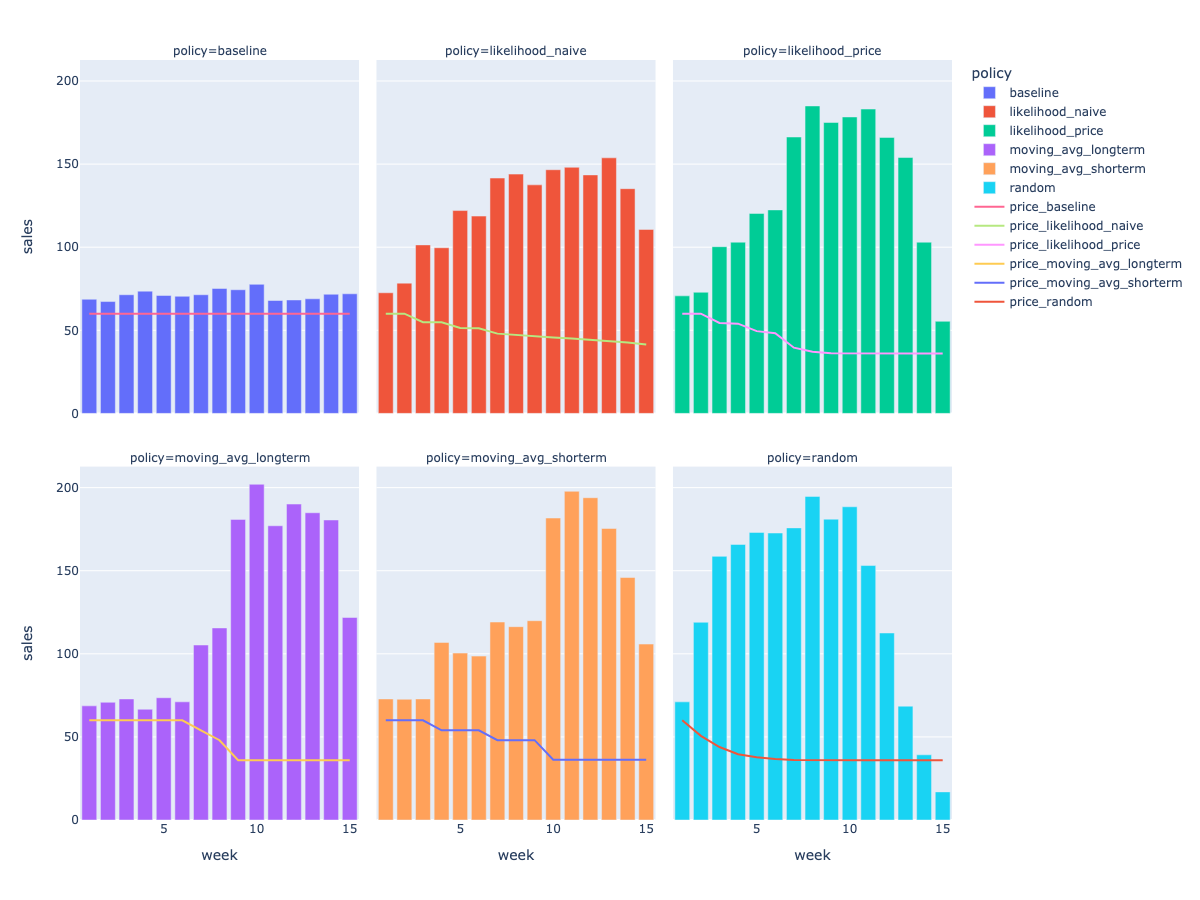
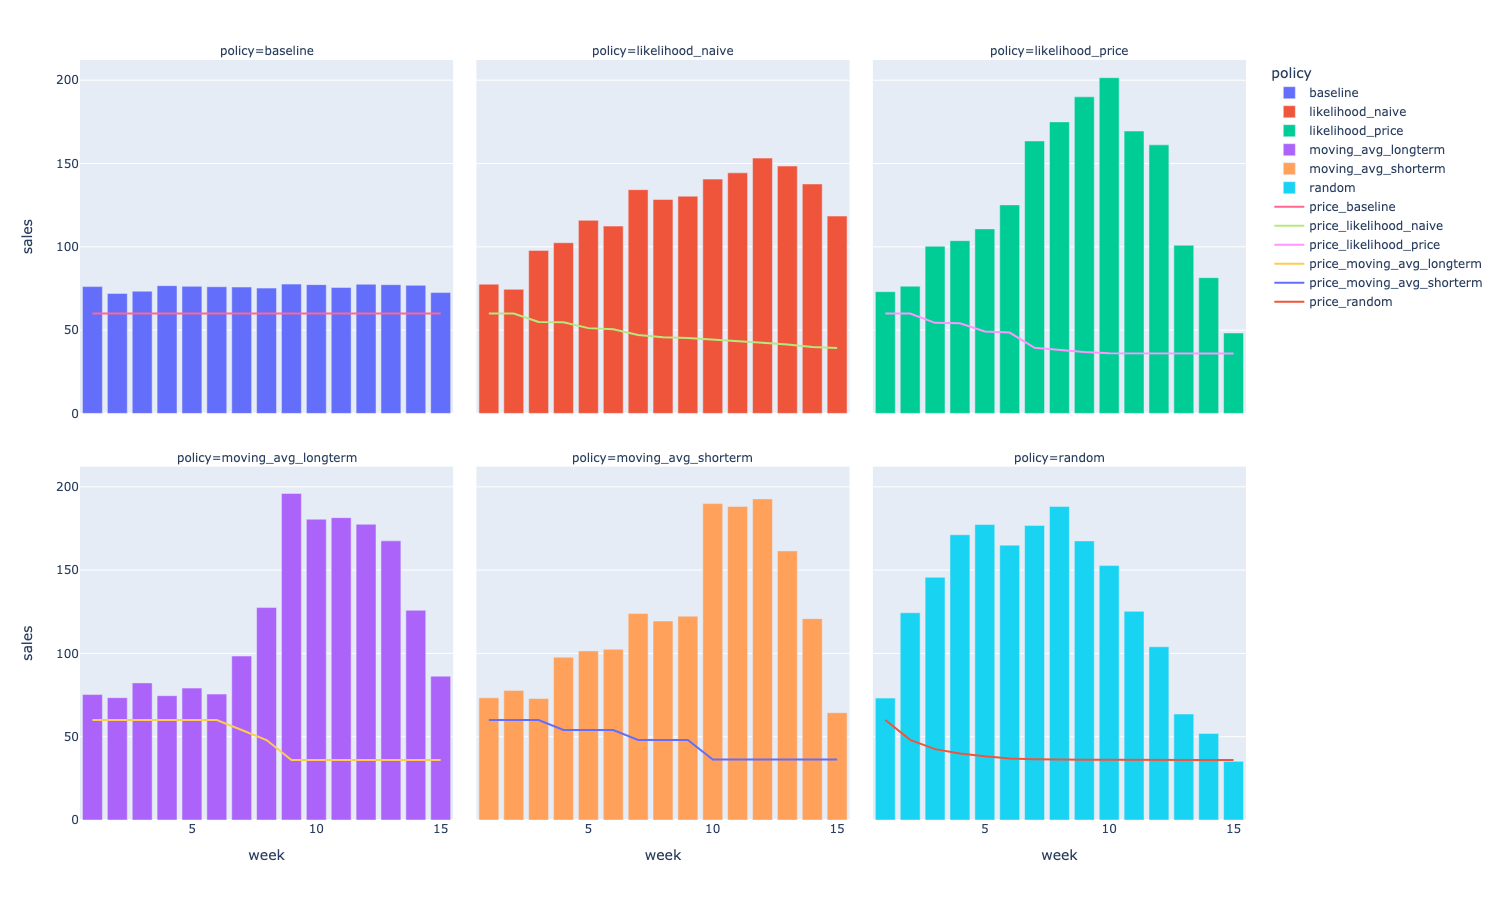
changed plots resolution

diff --git a/main.py b/main.py
@@ -168,7 +168,7 @@ fig = px.line(res_all, x='week', y='cum_revenue', color='policy',
               facet_col='policy', facet_col_wrap=3,)
 fig.update_traces(opacity=0.05)
 fig.show(renderer='browser')
-# pio.write_image(fig, 'images/simulation_results.png', scale=1, width=1200, height=900)
+pio.write_image(fig, 'images/simulation_results.png', scale=1, width=1500, height=900)
 
 
 # Aggregate
@@ -179,7 +179,7 @@ res_all_agg = res_all.\
 
 fig = px.line(res_all_agg, x='week', y='cum_revenue', color='policy',)
 fig.show(renderer='browser')
-# pio.write_image(fig, 'images/revenue_aggregation.png', scale=1, width=1200, height=900)
+pio.write_image(fig, 'images/revenue_aggregation.png', scale=1, width=1500, height=900)
 
 
 # Prices versus Sales
@@ -188,30 +188,34 @@ res_all_agg_versus = res_all.\
     agg({'price': 'mean', 'sales': 'mean'}).\
     reset_index()
 fig = px.bar(res_all_agg_versus, x='week', y='sales', color='policy',
-             facet_col='policy', facet_col_wrap=3, )
-# fig.add_trace(go.Scatter(x=res_all_agg_versus.query(f'policy == "baseline"').week,
-#                          y=res_all_agg_versus.query(f'policy == "baseline"').price,
-#                          name = 'price_baseline',
-#                          mode='lines'), row = 3, col = 1)
-# fig.add_trace(go.Scatter(x=res_all_agg_versus.query(f'policy == "likelihood_naive"').week,
-#                          y=res_all_agg_versus.query(f'policy == "likelihood_naive"').price,
-#                          name = 'price_likelihood_naive',
-#                          mode='lines'), row = 3, col = 2)
-# fig.add_trace(go.Scatter(x=res_all_agg_versus.query(f'policy == "likelihood_price"').week,
-#                          y=res_all_agg_versus.query(f'policy == "likelihood_price"').price,
-#                          name = 'price_likelihood_price',
-#                          mode='lines'), row = 2, col = 1)
-# fig.add_trace(go.Scatter(x=res_all_agg_versus.query(f'policy == "moving_avg_longterm"').week,
-#                          y=res_all_agg_versus.query(f'policy == "moving_avg_longterm"').price,
-#                          name = 'price_moving_avg_longterm',
-#                          mode='lines'), row = 2, col = 2)
-# fig.add_trace(go.Scatter(x=res_all_agg_versus.query(f'policy == "moving_avg_shorterm"').week,
-#                          y=res_all_agg_versus.query(f'policy == "moving_avg_shorterm"').price,
-#                          name = 'price_moving_avg_shorterm',
-#                          mode='lines'), row = 1, col = 1)
+              facet_col='policy', facet_col_wrap=3, )
+fig.add_trace(go.Scatter(x=res_all_agg_versus.query(f'policy == "baseline"').week, 
+                         y=res_all_agg_versus.query(f'policy == "baseline"').price, 
+                         name = 'price_baseline',
+                         mode='lines'), row = 2, col = 1)
+fig.add_trace(go.Scatter(x=res_all_agg_versus.query(f'policy == "likelihood_naive"').week, 
+                         y=res_all_agg_versus.query(f'policy == "likelihood_naive"').price, 
+                         name = 'price_likelihood_naive',
+                         mode='lines'), row = 2, col = 2)
+fig.add_trace(go.Scatter(x=res_all_agg_versus.query(f'policy == "likelihood_price"').week, 
+                         y=res_all_agg_versus.query(f'policy == "likelihood_price"').price, 
+                         name = 'price_likelihood_price',
+                         mode='lines'), row = 2, col = 3)
+fig.add_trace(go.Scatter(x=res_all_agg_versus.query(f'policy == "moving_avg_longterm"').week, 
+                         y=res_all_agg_versus.query(f'policy == "moving_avg_longterm"').price,
+                         name = 'price_moving_avg_longterm',
+                         mode='lines'), row = 1, col = 1)
+fig.add_trace(go.Scatter(x=res_all_agg_versus.query(f'policy == "moving_avg_shorterm"').week, 
+                         y=res_all_agg_versus.query(f'policy == "moving_avg_shorterm"').price,
+                         name = 'price_moving_avg_shorterm',
+                         mode='lines'), row = 1, col = 2)
+fig.add_trace(go.Scatter(x=res_all_agg_versus.query(f'policy == "random"').week, 
+                         y=res_all_agg_versus.query(f'policy == "random"').price,
+                         name = 'price_random',
+                         mode='lines'), row = 1, col = 3)
 
 fig.show(renderer='browser')
-# pio.write_image(fig, 'images/prices_versus_sales.png', scale=1, width=1200, height=900)
+pio.write_image(fig, 'images/prices_versus_sales.png', scale=1, width=1500, height=900)
 
 # Revenue Distribution - Hist and Rug
 res_rev_all = res_all.groupby(['repl', 'policy']).agg({'revenue': 'sum'}).reset_index()
@@ -222,14 +226,15 @@ for policy in res_rev_all.policy.unique():
 fig = ff.create_distplot(res_rev, res_rev_all.policy.unique(),
                          bin_size=1000, curve_type='normal')
 fig.show(renderer='browser')
-# fig.write_image('images/revenue_distribution_hist.png')
-
+pio.write_image(fig, 'images/revenue_distribution_hist.png', scale=1, width=1500, height=900)
 
 # Revenue Distribution - Boxplot
 fig = px.box(res_rev_all, y='revenue', facet_col='policy', color='policy',
              boxmode='overlay', points='all')
 fig.show(renderer='browser')
-# pio.write_image(fig, 'images/revenue_distribution_box.png', scale=1, width=1200, height=900)
+pio.write_image(fig, 'images/revenue_distribution_box.png', scale=1, width=1500, height=900)
 
+# Revenue Distribution - Table
+res_rev_all.groupby(['policy']).agg({'revenue': ['mean', 'std']}).sort_values(by=('revenue','mean'), ascending=False).reset_index()
 
 # %%
